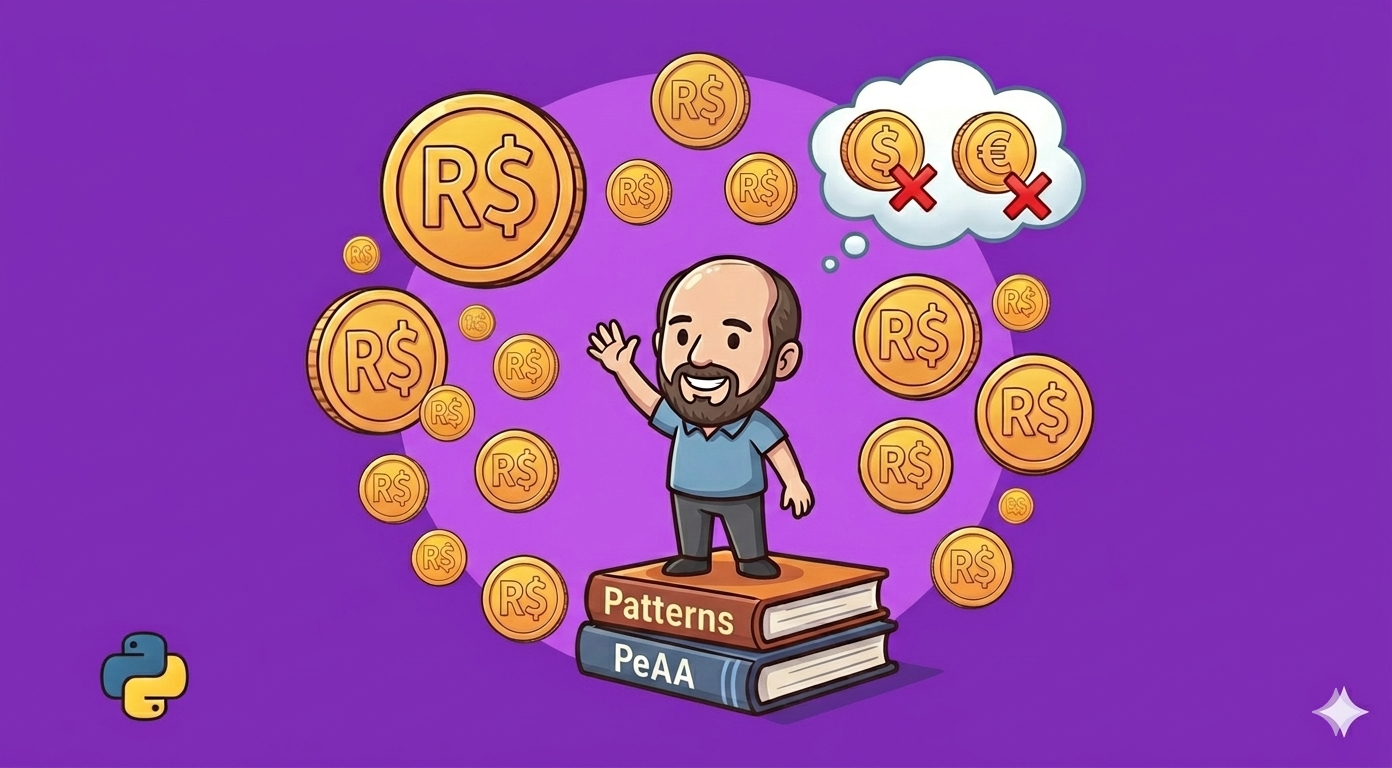
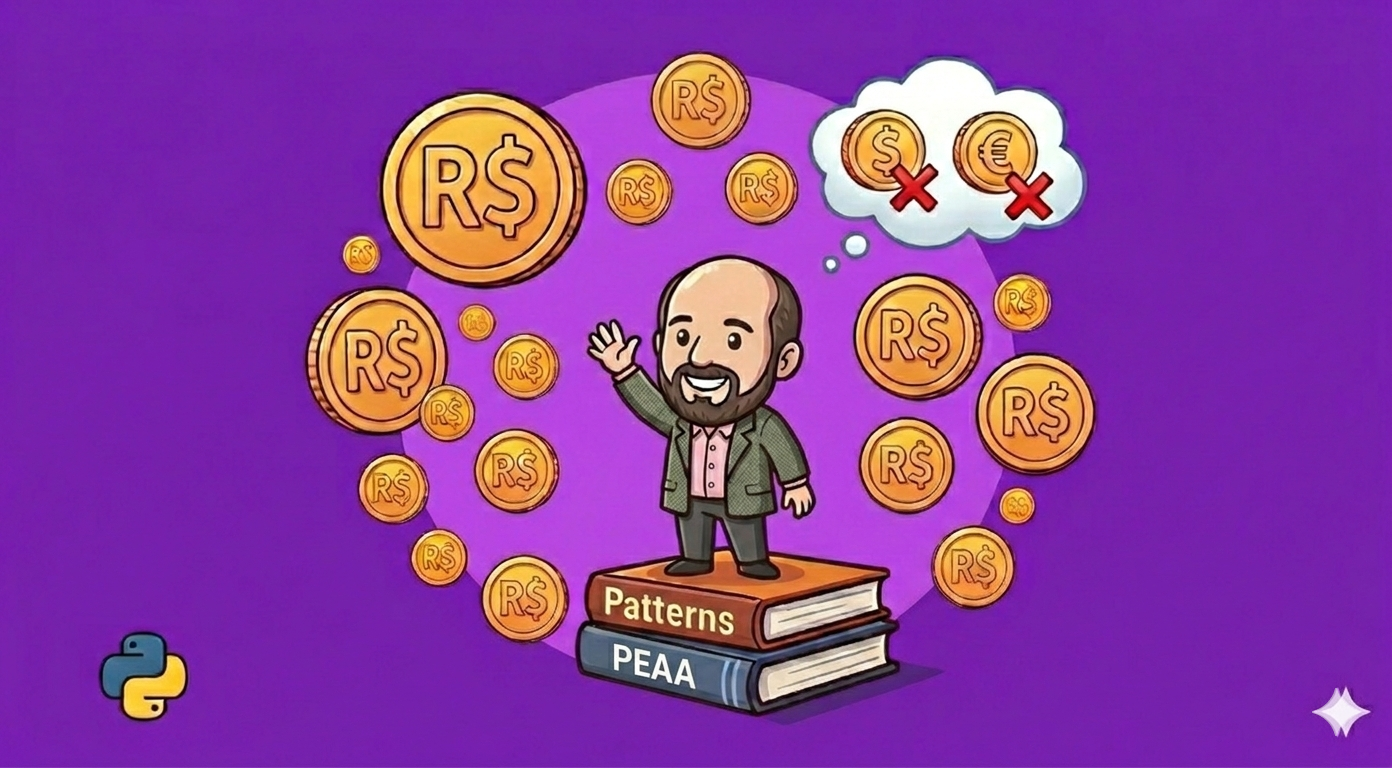
revisão do post sobre objeto dinheiro

diff --git a/content/posts/objeto-dinheiro.md b/content/posts/objeto-dinheiro.md
@@ -1,7 +1,7 @@
 +++
 title = "O Objeto Dinheiro"
-date = "2026-02-28"
-description = "Implementando o padrão Money de Martin Fowler em Python com dataclasses."
+date = "2026-03-01"
+description = "Implementando o padrão Money em Python com dataclasses."
 slug = "objeto-dinheiro"
 tags = ["python", "dicas", "dataclass", "patterns"]
 categories = ["python"]
@@ -11,13 +11,30 @@ categories = ["python"]
 
 ## A História
 
-Há um tempo, participei de um processo seletivo de um banco roxinho bastante conhecido. Não passei, mas recebi um feedback valioso sobre o código que escrevi. Juntando esse feedback com conhecimentos que adquiri depois, decidi revisitar o desafio e melhorar a implementação. Uma das melhorias mais significativas foi a criação de um objeto `Money`, baseado no padrão de mesmo nome descrito por Martin Fowler no livro *Patterns of Enterprise Application Architecture* (PeAA).
+Há um tempo, participei de um processo seletivo de um banco roxinho bastante conhecido. Não passei, mas recebi um feedback valioso sobre o código que escrevi. Juntando esse feedback com conhecimentos que adquiri depois, decidi revisitar o desafio e melhorar a implementação.
 
-A ideia central é simples: dinheiro não é apenas um número. Dinheiro tem moeda, regras de arredondamento e não faz sentido somar reais com dólares. Vamos construir esse objeto passo a passo.
+Uma das melhorias mais significativas foi a criação de um objeto `Money`, baseado no padrão de mesmo nome descrito por Martin Fowler no livro *Patterns of Enterprise Application Architecture* (PEAA).
+
+## O Problema
+
+Quando representamos dinheiro como um simples número, coisas estranhas podem acontecer:
+
+```python
+>>> 0.1 + 0.2
+0.30000000000000004
+
+>>> preco = 19.99
+>>> preco * 3
+59.970000000000006
+```
+
+Ponto flutuante e dinheiro não combinam. Além disso, um número sozinho não carrega informação sobre a moeda. Nada impede você de somar reais com dólares — e esse é o tipo de bug silencioso que aparece em produção.
+
+A ideia central do padrão Money é tratar dinheiro como um objeto completo: com valor, moeda e regras próprias de aritmética. Vamos construí-lo passo a passo.
 
 ## A Base: Dataclass Congelada
 
-Começamos definindo a estrutura básica com `dataclass`. Usamos `frozen=True` para tornar o objeto imutável, afinal, uma quantia de dinheiro não muda — você cria uma nova.
+Começamos definindo a estrutura com `dataclass`. Usamos `frozen=True` para tornar o objeto imutável — assim como no mundo real, uma quantia de dinheiro não muda: quando você paga R$ 10,00 e recebe R$ 3,00 de troco, surgem valores novos, o original continua o mesmo.
 
 ```python
 from dataclasses import dataclass, field, InitVar
@@ -33,11 +50,17 @@ class Money:
     currency: str = DEFAULT_CURRENCY
 ```
 
-Repare no uso de `InitVar` e `field(init=False)`. O campo `raw_amount` é um parâmetro de inicialização que **não** será armazenado como atributo do objeto. Ele existe apenas para receber o valor bruto. Já o campo `amount` não aparece no `__init__` gerado pelo dataclass — ele será calculado no `__post_init__`.
+Aqui temos três campos, mas cada um tem um papel diferente:
+
+- **`raw_amount`** está marcado com `InitVar`. Isso significa que ele é um parâmetro do construtor, mas **não** vira um atributo do objeto. Ele só existe para receber o valor bruto na hora da criação.
+- **`amount`** usa `field(init=False)`, ou seja, **não** aparece no construtor. Ele será calculado internamente — veremos como a seguir.
+- **`currency`** é um campo normal com valor padrão `"BRL"`.
+
+Essa separação entre o que o usuário passa (`raw_amount`) e o que o objeto armazena (`amount`) é o que nos permite processar o valor antes de guardá-lo.
 
 ## Garantindo Duas Casas Decimais
 
-O `__post_init__` recebe os campos marcados como `InitVar` e nos permite processar o valor antes de armazená-lo:
+O método `__post_init__` é chamado automaticamente pelo `dataclass` logo após o `__init__`. Ele recebe como argumento os campos marcados com `InitVar` — no nosso caso, o `raw_amount`:
 
 ```python
 def __post_init__(self, raw_amount):
@@ -45,7 +68,13 @@ def __post_init__(self, raw_amount):
     object.__setattr__(self, "amount", quantized_amount)
 ```
 
-Aqui convertemos o valor para `Decimal` e usamos `quantize` para garantir sempre duas casas decimais. Como o dataclass é `frozen`, não podemos atribuir diretamente ao atributo, então usamos `object.__setattr__` para contornar essa restrição durante a inicialização.
+Vamos entender linha a linha:
+
+1. `Decimal(raw_amount)` converte o valor bruto para `Decimal`, que é o tipo ideal para trabalhar com valores monetários (sem os problemas de ponto flutuante).
+2. `.quantize(TWOPLACES)` arredonda para exatamente duas casas decimais. A constante `TWOPLACES` vale `Decimal("0.01")`, que serve como molde — "quero a mesma precisão que 0.01".
+3. `object.__setattr__(...)` é necessário porque o dataclass é `frozen`. Em um dataclass congelado, atribuições diretas como `self.amount = valor` levantam um `FrozenInstanceError`. O truque é chamar o `__setattr__` da classe base `object`, que ignora essa proteção. Isso é seguro aqui porque estamos dentro da inicialização.
+
+Veja o resultado:
 
 ```python
 >>> Money("10.5")
@@ -58,9 +87,11 @@ Money(amount=Decimal('1.00'), currency='BRL')
 Money(amount=Decimal('10.00'), currency='BRL')
 ```
 
-## Moeda: Evitando Operações Erradas
+Independente do que é passado, o `amount` sempre terá duas casas decimais.
 
-O campo `currency` existe para impedir que operações sem sentido aconteçam. Antes de qualquer operação entre dois objetos `Money`, verificamos se as moedas são compatíveis:
+## Moeda: Evitando Operações Inválidas
+
+O campo `currency` não é apenas informativo — ele serve como uma trava de segurança. Antes de qualquer operação entre dois objetos `Money`, verificamos se as moedas são iguais:
 
 ```python
 def _assert_same_currency_as(self, other):
@@ -70,16 +101,22 @@ def _assert_same_currency_as(self, other):
         )
 ```
 
-Isso garante que você nunca some reais com dólares acidentalmente:
+Esse método é privado (prefixo `_`) porque é um detalhe interno — quem usa o `Money` não precisa chamá-lo diretamente. Ele será usado dentro das operações aritméticas e de comparação.
+
+Se alguém tentar somar moedas diferentes, o erro é claro e imediato:
 
 ```python
 >>> Money("10.00", "BRL") + Money("5.00", "USD")
 ValueError: Different currencies: BRL and USD
 ```
 
+Sem esse tipo de validação, o código somaria os valores silenciosamente e o bug só apareceria lá na frente.
+
 ## Sobrecarga de Operadores Aritméticos
 
-Com os métodos especiais do Python, podemos fazer operações aritméticas de forma natural:
+Python permite que objetos definam como se comportam com operadores como `+`, `-`, `*` e `/`. Para isso, basta implementar os métodos especiais correspondentes.
+
+Para **soma e subtração**, operamos entre dois objetos `Money` e verificamos a moeda antes:
 
 ```python
 def __add__(self, other):
@@ -89,7 +126,11 @@ def __add__(self, other):
 def __sub__(self, other):
     self._assert_same_currency_as(other)
     return Money(self.amount - other.amount, self.currency)
+```
 
+Para **multiplicação e divisão**, a operação é entre `Money` e um escalar (um número inteiro ou decimal). Faz sentido multiplicar um preço por uma quantidade, mas não faz sentido multiplicar um preço por outro preço:
+
+```python
 def __mul__(self, scalar):
     return Money(self.amount * Decimal(scalar), self.currency)
 
@@ -99,9 +140,9 @@ def __truediv__(self, scalar):
     return Money(self.amount / Decimal(scalar), self.currency)
 ```
 
-Soma e subtração exigem verificação de moeda. Multiplicação e divisão operam com escalares (inteiros ou decimais), não com outro `Money` — faz sentido multiplicar um preço por uma quantidade, mas não multiplicar um preço por outro preço.
+O `__rmul__` merece uma explicação. Quando escrevemos `Money("10.00") * 3`, o Python chama `Money.__mul__(3)`. Mas quando invertemos para `3 * Money("10.00")`, o Python primeiro tenta `int.__mul__(Money(...))`, que não sabe lidar com `Money` e retorna `NotImplemented`. Então o Python tenta o lado direito: `Money.__rmul__(3)`. Sem o `__rmul__`, essa expressão falharia. Como a multiplicação é comutativa, basta apontar `__rmul__` para o mesmo método.
 
-O `__rmul__` permite escrever `3 * Money("10.00")` além de `Money("10.00") * 3`.
+Note que cada operação retorna um **novo** objeto `Money` — nenhuma operação altera o objeto original, mantendo a imutabilidade.
 
 ```python
 >>> Money("10.00") + Money("5.50")
@@ -122,7 +163,11 @@ Money(amount=Decimal('33.33'), currency='BRL')
 
 ## Comparação Completa com total_ordering
 
-Aqui está a grande jogada. O `dataclass` já gera automaticamente o método `__eq__` que compara todos os campos. Então, dois objetos `Money` são iguais se tiverem o mesmo `amount` e a mesma `currency`. Só precisamos implementar o `__lt__` (menor que):
+Para ordenar uma lista de preços ou verificar se um valor é maior que outro, nosso objeto precisa ser **comparável**. Em Python, isso significa implementar métodos como `__eq__` (igual), `__lt__` (menor que), `__le__` (menor ou igual), `__gt__` (maior que) e `__ge__` (maior ou igual). São cinco métodos — e implementar todos na mão é tedioso e propenso a erros.
+
+Aqui está a grande jogada: o `dataclass` já gera automaticamente o `__eq__`, que compara todos os campos do objeto. Dois objetos `Money` são iguais se tiverem o mesmo `amount` **e** a mesma `currency`. Isso já vem de graça.
+
+Precisamos implementar apenas o `__lt__`:
 
 ```python
 from functools import total_ordering
@@ -139,7 +184,9 @@ class Money:
         return self.amount < other.amount
 ```
 
-O decorador `@total_ordering` faz a mágica: a partir do `__eq__` (que já temos de graça pelo dataclass) e do `__lt__`, ele gera automaticamente `__le__`, `__gt__` e `__ge__`. Com isso, o objeto `Money` se torna **totalmente comparável**:
+A verificação `isinstance` garante que só comparamos `Money` com `Money`. Se alguém tentar `Money("10.00") < 42`, retornamos `NotImplemented` — que é a forma do Python dizer "não sei fazer essa comparação", permitindo que o outro lado tente.
+
+O decorador `@total_ordering` completa o trabalho: a partir do `__eq__` (do dataclass) e do `__lt__` (nosso), ele **gera automaticamente** os métodos `__le__`, `__gt__` e `__ge__`. Com duas peças, montamos o quebra-cabeça inteiro:
 
 ```python
 >>> Money("10.00") == Money("10.00")
@@ -155,9 +202,11 @@ True
 True
 ```
 
+O objeto `Money` agora é **totalmente ordenável**, podendo inclusive ser usado em listas com `sort()` e `sorted()`.
+
 ## Construtor Alternativo: Zero
 
-Por fim, um método de classe que cria um `Money` com valor zero. Muito útil como valor inicial em acumuladores e reduções:
+Em muitas situações, precisamos de um valor zero como ponto de partida — em acumuladores, como valor inicial em reduções, ou simplesmente para representar "nenhum valor". Um método de classe oferece uma forma expressiva de criar esse objeto:
 
 ```python
 @classmethod
@@ -165,18 +214,26 @@ def zero(cls, currency=DEFAULT_CURRENCY):
     return cls("0.00", currency)
 ```
 
+Usamos `cls` em vez de `Money` diretamente para que o método funcione corretamente mesmo em subclasses. Veja como fica na prática:
+
 ```python
 >>> Money.zero()
 Money(amount=Decimal('0.00'), currency='BRL')
 
 >>> Money.zero("USD")
 Money(amount=Decimal('0.00'), currency='USD')
+```
 
+Um uso muito comum é como valor inicial em uma redução. Imagine somar uma lista de preços:
+
+```python
 >>> from functools import reduce
 >>> precos = [Money("10.00"), Money("20.00"), Money("30.00")]
 >>> reduce(lambda a, b: a + b, precos, Money.zero())
 Money(amount=Decimal('60.00'), currency='BRL')
 ```
+
+Sem o `Money.zero()`, teríamos que escrever `Money("0.00")` — funciona, mas `Money.zero()` comunica melhor a intenção.
 
 ## O Código Completo
 
@@ -242,9 +299,15 @@ class Money:
 
 ## Considerações Finais
 
-O padrão Money é um ótimo exemplo de como um *Value Object* bem modelado pode prevenir uma série de bugs sutis. Ao encapsular regras de arredondamento, validação de moeda e operações aritméticas em um único lugar, o código que utiliza dinheiro fica mais expressivo e seguro.
+O padrão Money é um ótimo exemplo de *Value Object* — um objeto definido pelo seu valor, não pela sua identidade. Ao encapsular regras de arredondamento, validação de moeda e operações aritméticas em um único lugar, o código que lida com dinheiro fica mais expressivo e seguro.
 
-Python nos dá ferramentas poderosas para isso: `dataclass` para reduzir boilerplate, `InitVar` e `__post_init__` para controle de inicialização, `total_ordering` para comparação completa com esforço mínimo, e os métodos especiais para uma interface natural com operadores.
+Neste artigo, vimos como Python nos oferece ferramentas que se encaixam perfeitamente nesse padrão:
+
+- **`dataclass`** para gerar o construtor, o `__repr__` e o `__eq__` automaticamente.
+- **`InitVar`** e **`__post_init__`** para processar valores de entrada antes de armazená-los.
+- **Métodos especiais** (`__add__`, `__sub__`, `__mul__`, `__truediv__`) para uma interface natural com operadores.
+- **`@total_ordering`** combinado com o `__eq__` do dataclass e um único `__lt__` para tornar o objeto totalmente comparável.
+- **`@classmethod`** para construtores alternativos expressivos como `Money.zero()`.
 
 Às vezes, não passar em um teste técnico é só o começo do aprendizado.
 
